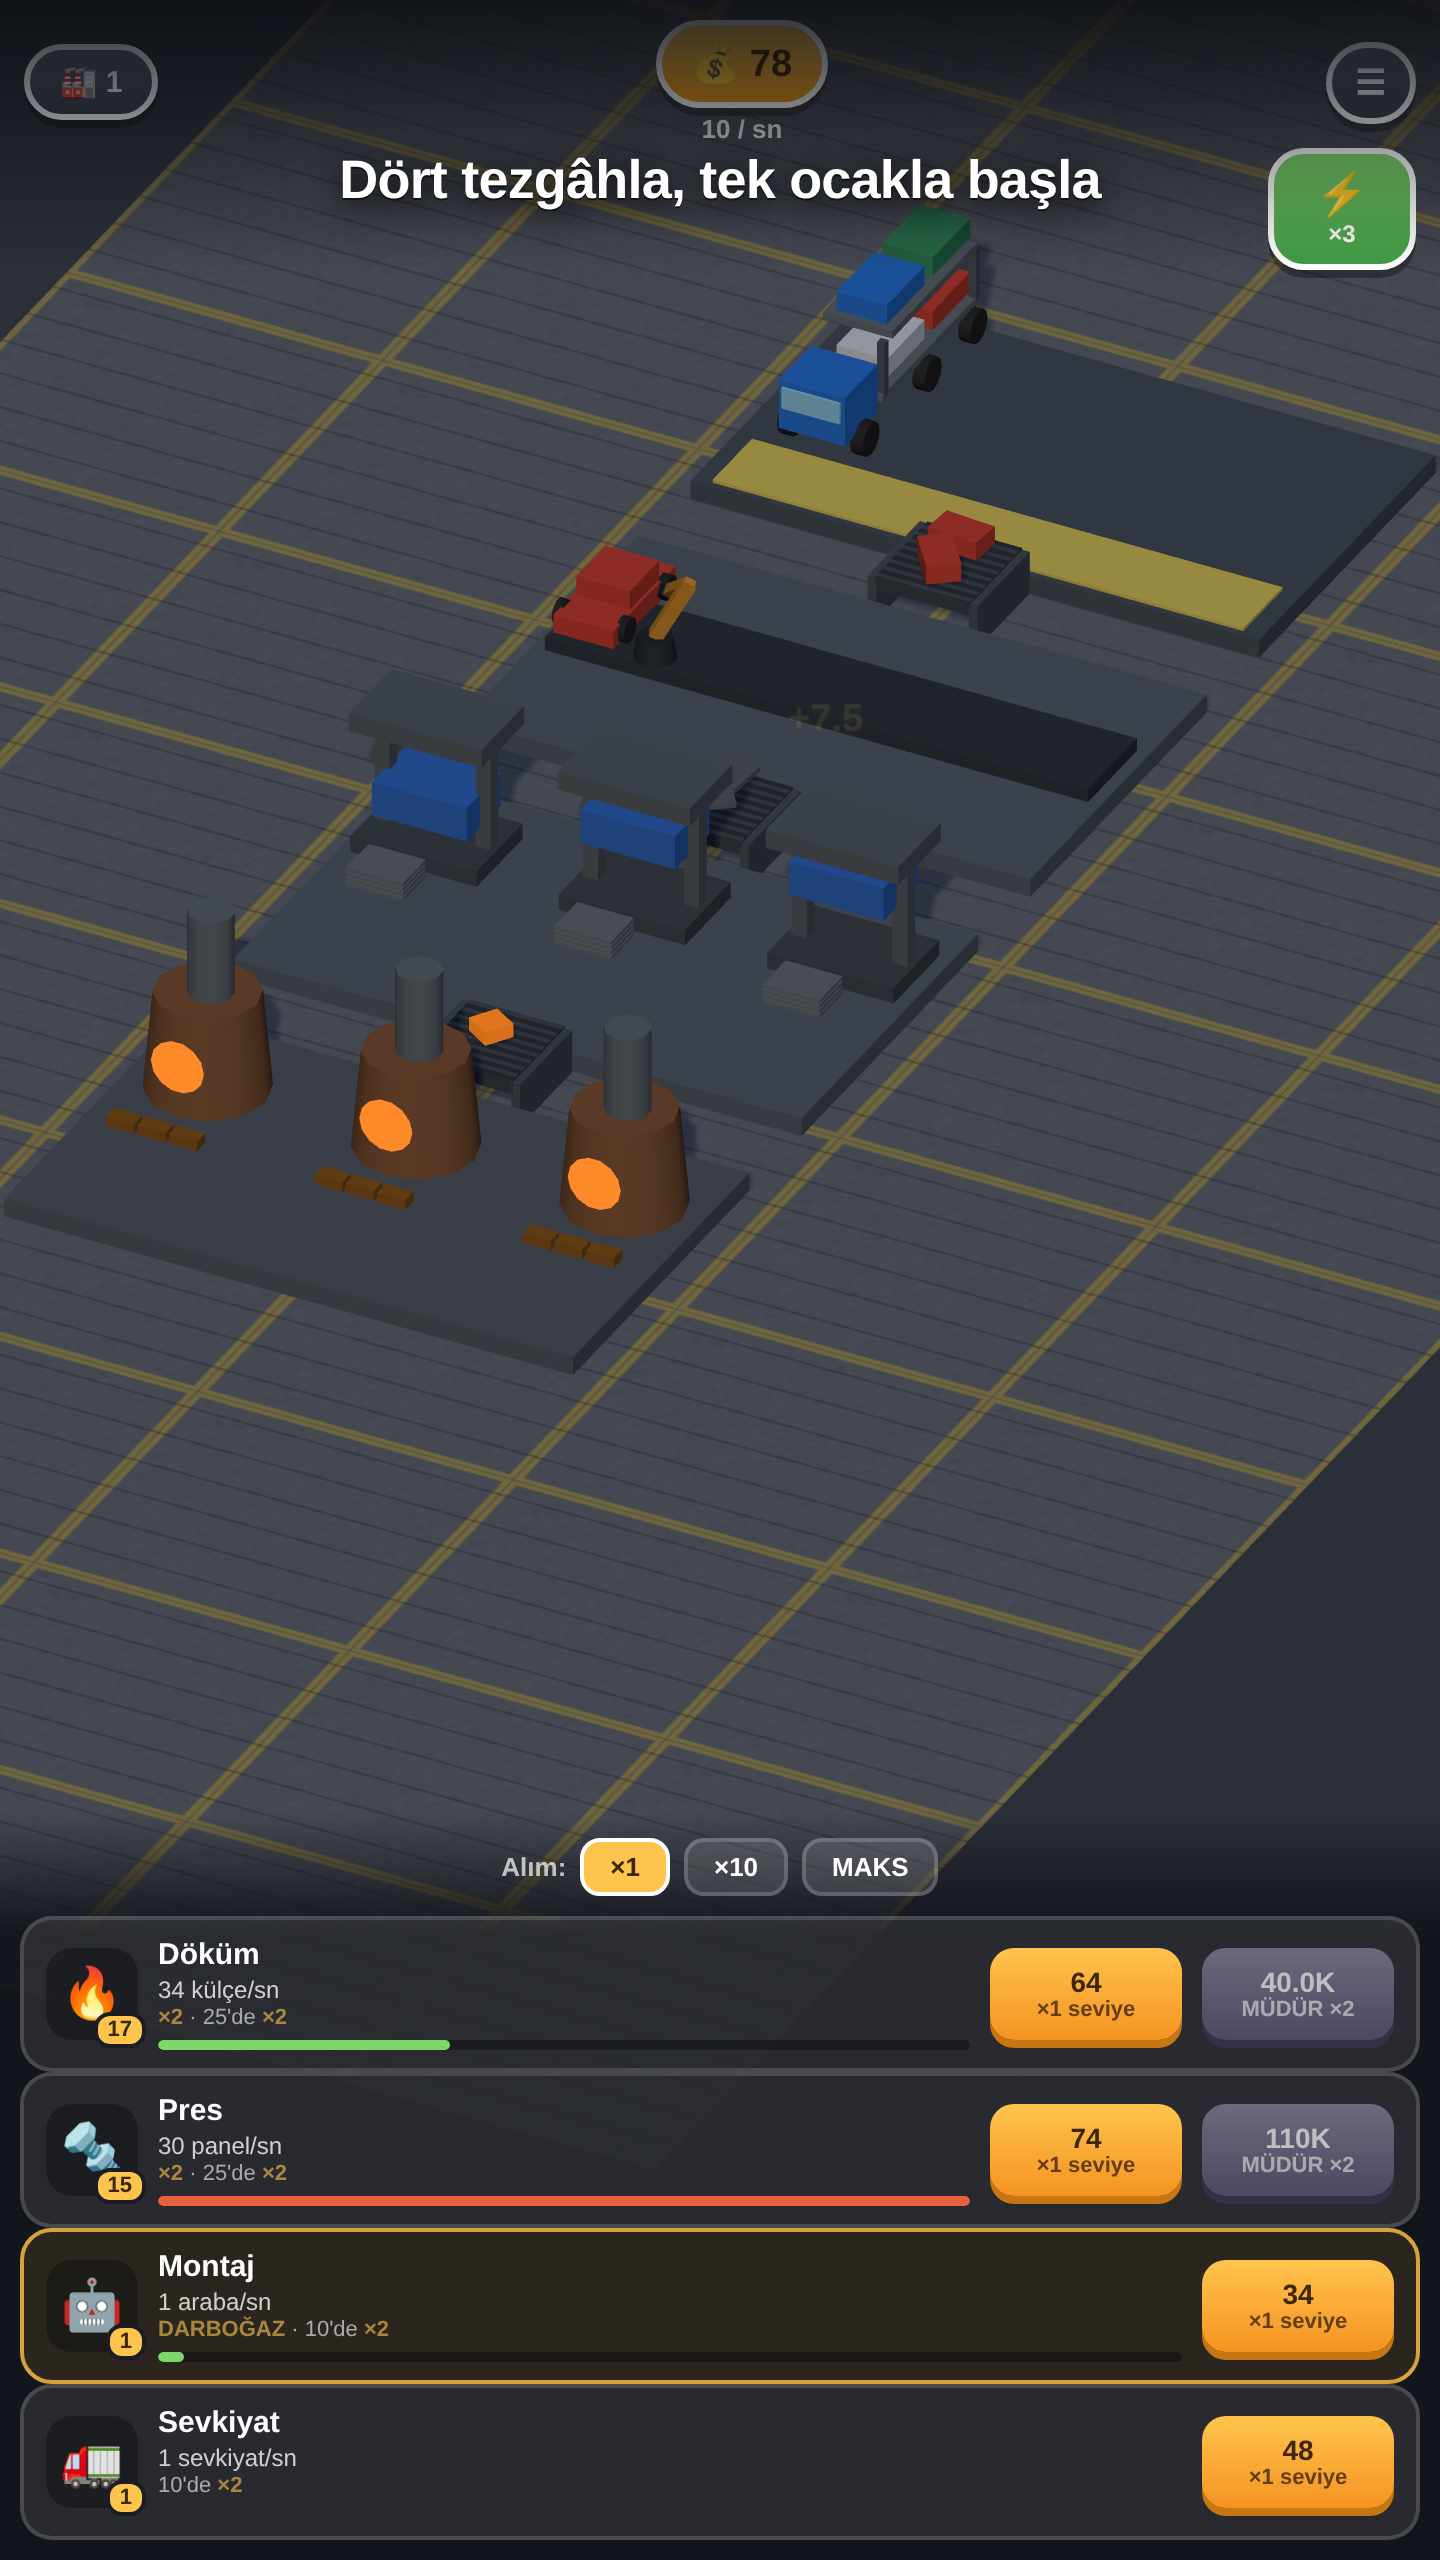
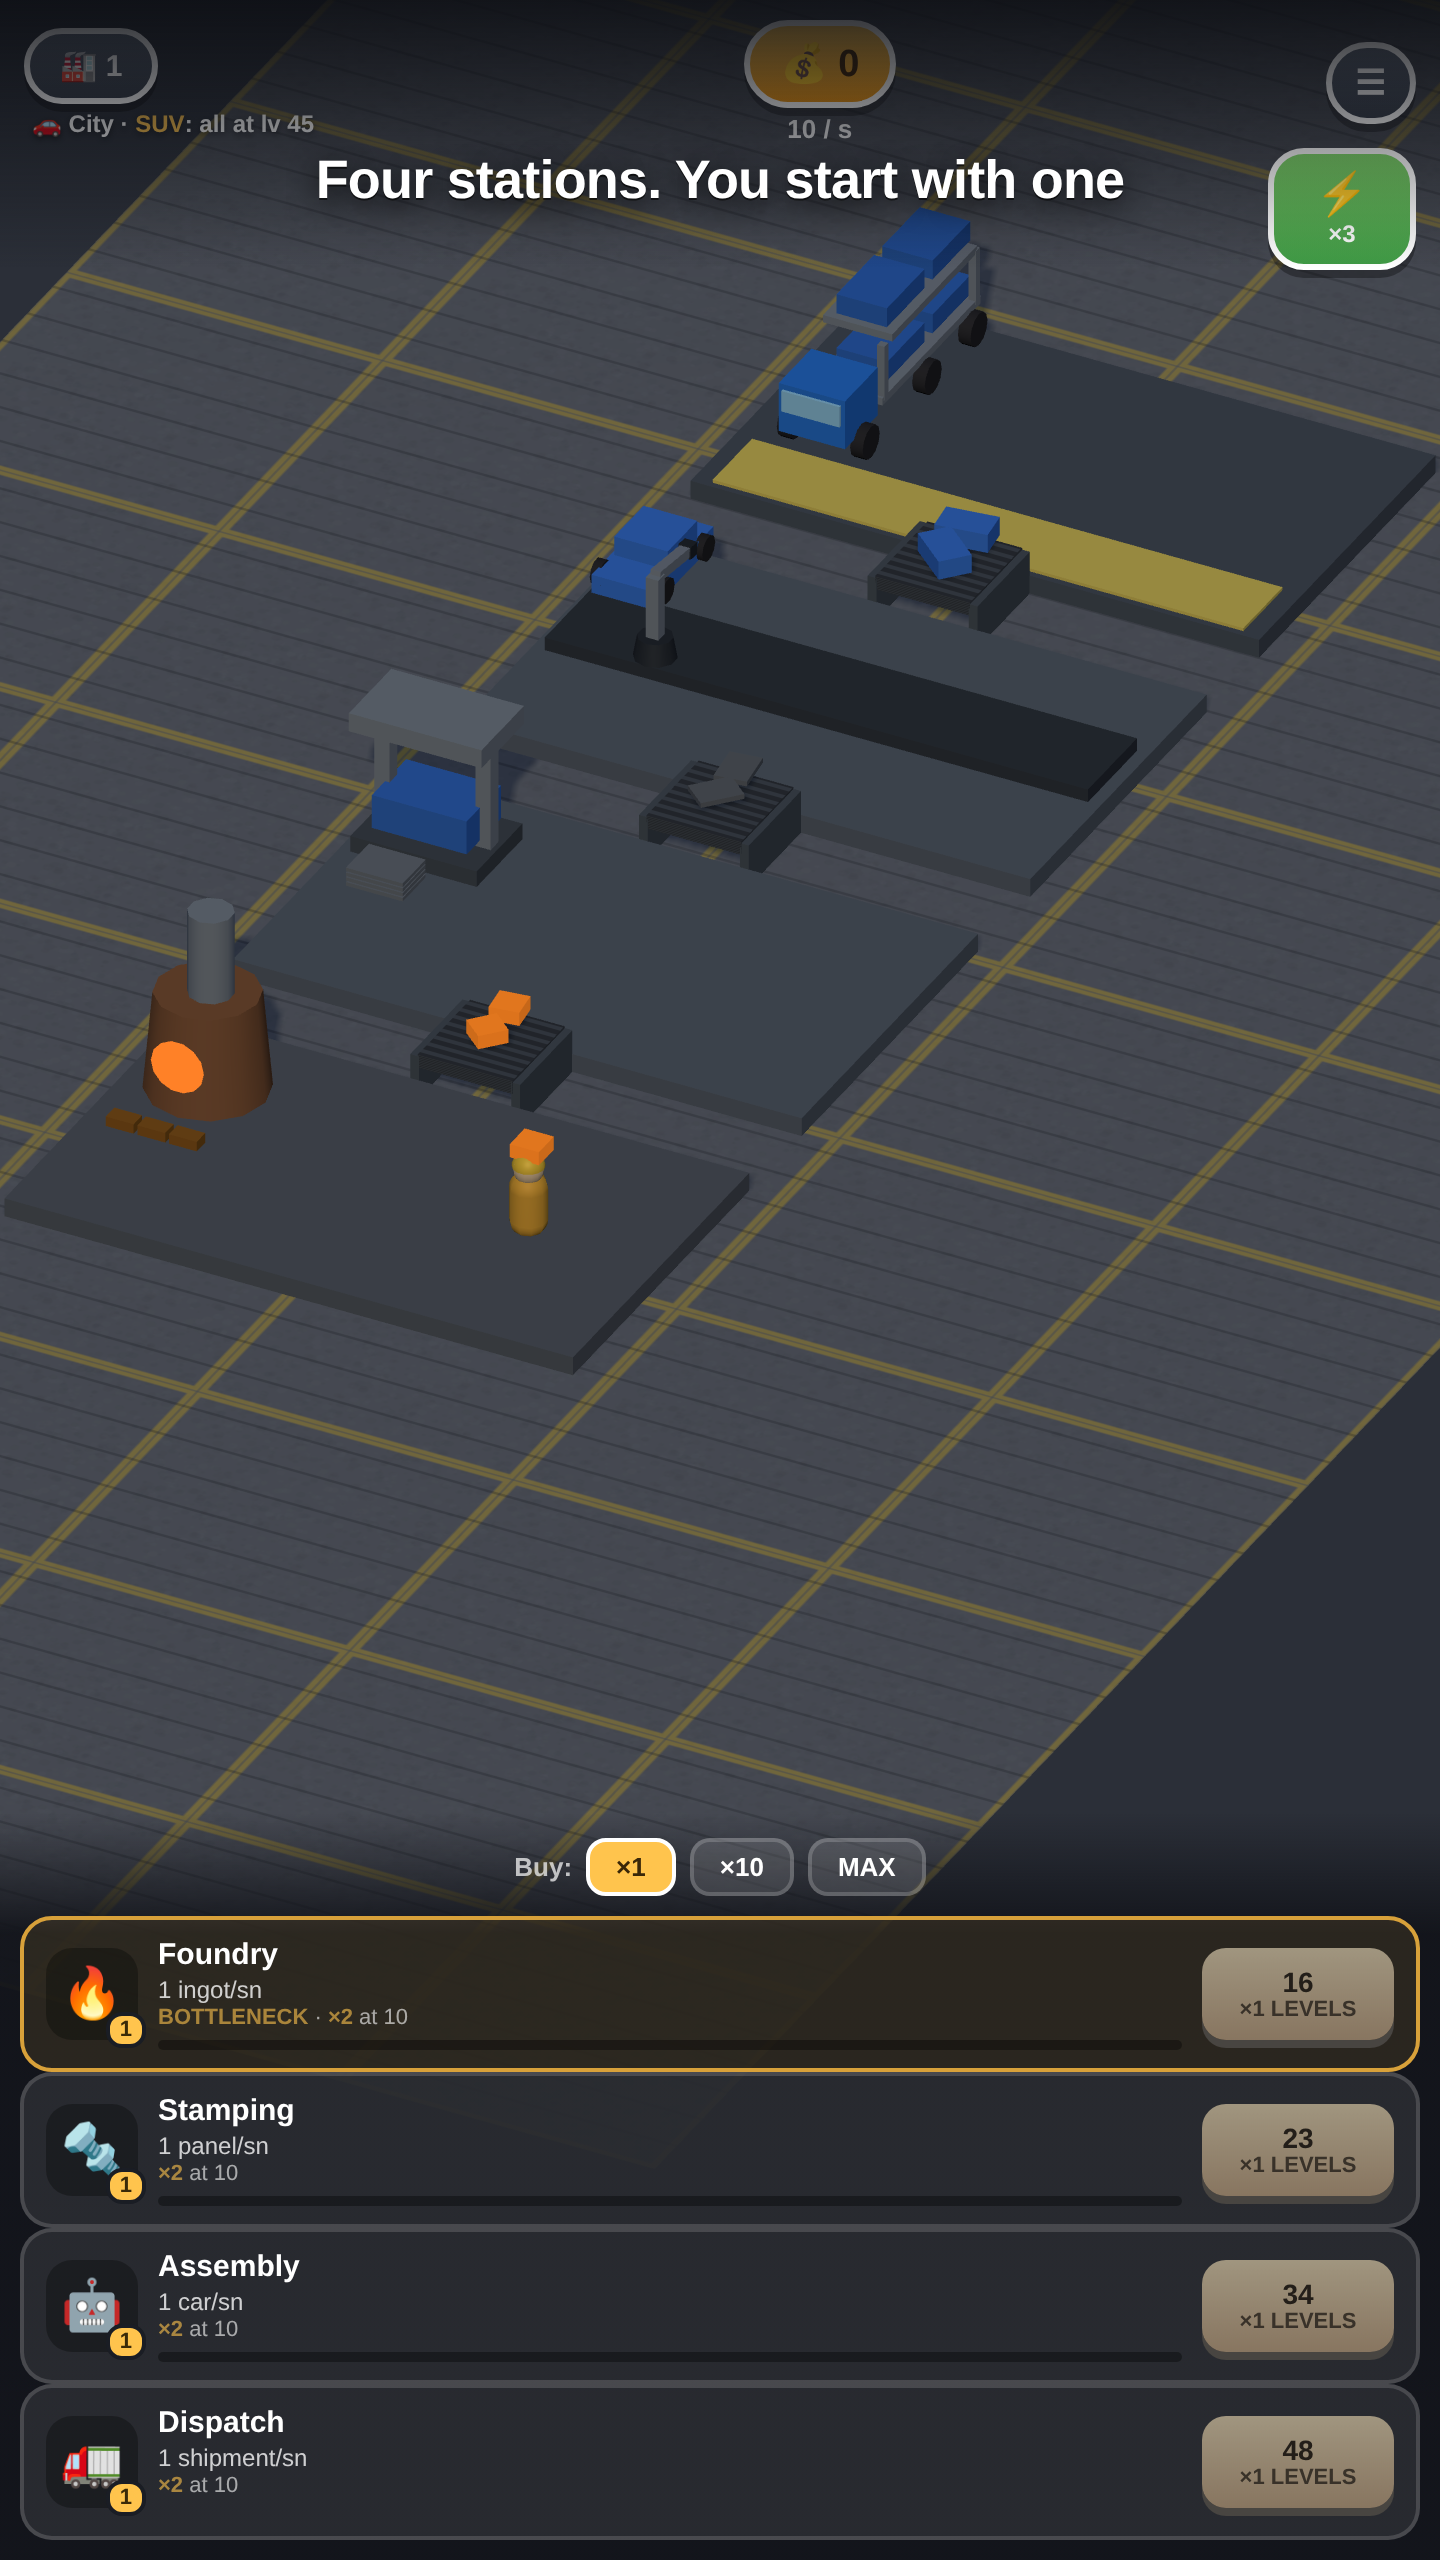
Put the Motor Works store images into English too
The translation covered the game, not the shop window. The feature graphic
read 'Hatti kur, darbogazi bul, fabrikayi buyut', all six captions burned
into the screenshots were Turkish, and the shots themselves came from the
Turkish build. The listing's English text was already written further down
the file, so only the pictures were behind.

Two leftovers in the game as well, written by script rather than markup, so
the earlier pass missed them: the prestige screen's points lines.

The branch shot had been failing on a disabled button -- forty simulated
minutes do not earn a prestige -- so it now grants the earnings outright.
jeSetEarned, not jeSetLifetime: the gate is on what the branch earned, as
the hook's own comment says.

Claude-Session: https://claude.ai/code/session_01JC1qWREgw5F7AUsNfWCUkf

diff --git a/tycoon/index.html b/tycoon/index.html
@@ -1478,8 +1478,8 @@ $('muteBtn').onclick = () => {
 };
 $('prestigeBtn').onclick = () => {
   if (!canPrestige()) return;
-  $('pNow').textContent = `${fmt(freePoints())} puan boşta`;
-  $('pNext').textContent = `+${fmt(pendingPoints())} puan`;
+  $('pNow').textContent = `${fmt(freePoints())} points unspent`;
+  $('pNext').textContent = `+${fmt(pendingPoints())} points`;
   $('prestige').classList.add('show');
 };
 $('pNo').onclick = () => $('prestige').classList.remove('show');
